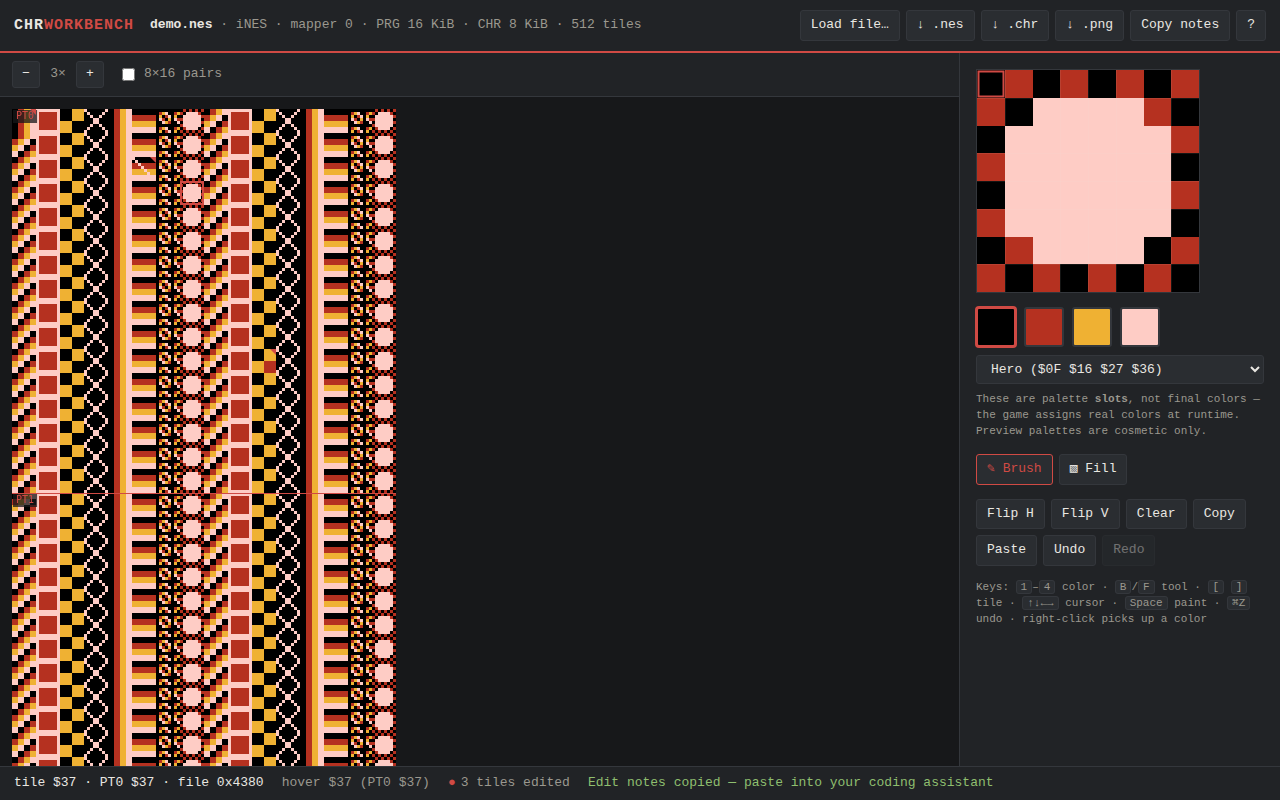
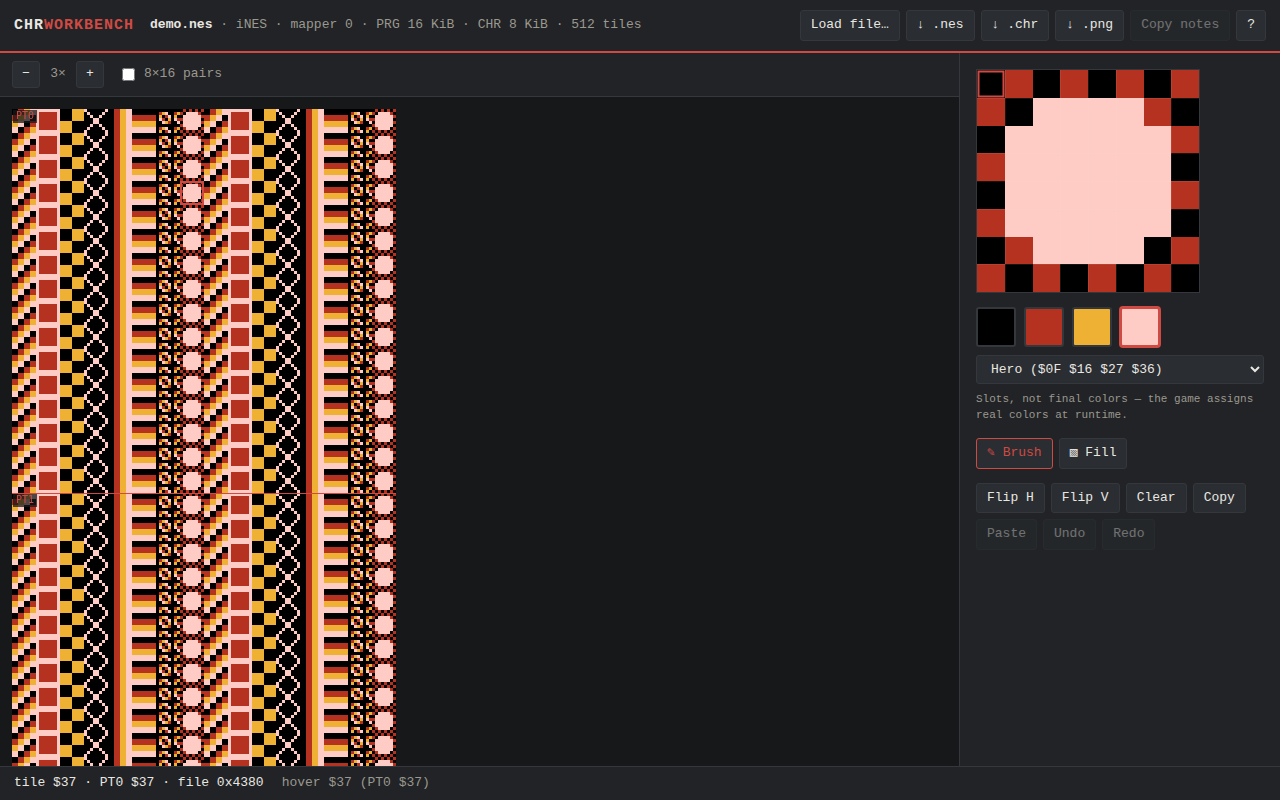
UI copy pass: trim chrome text, move detailed instructions into help
- Palette note cut to one line; keyboard-shortcut paragraph removed from
  the editor pane
- Help dialog rewritten as a scannable guide: sectioned headings, a full
  controls reference table, numbered workflow, and limitations (including
  that closing the tab discards unexported work)
- Help now opens scrolled to the top (showModal focuses the bottom Close
  button, which scrolled the heading out of view)
- 'Notes copied' flash message shortened
- Screenshot refreshed

Claude-Session: https://claude.ai/code/session_01HP2SbDyiovyKwMjda2n3MF

diff --git a/index.html b/index.html
@@ -72,8 +72,7 @@
             </div>
             <select id="palette-select" aria-label="Preview palette"></select>
             <p class="palette-note">
-              These are palette <strong>slots</strong>, not final colors — the game assigns real
-              colors at runtime. Preview palettes are cosmetic only.
+              Slots, not final colors — the game assigns real colors at runtime.
             </p>
           </div>
 
@@ -95,12 +94,6 @@
             <button id="tool-undo" type="button" title="Cmd/Ctrl+Z">Undo</button>
             <button id="tool-redo" type="button" title="Cmd/Ctrl+Shift+Z">Redo</button>
           </div>
-
-          <p class="hint">
-            Keys: <kbd>1</kbd>–<kbd>4</kbd> color · <kbd>B</kbd>/<kbd>F</kbd> tool · <kbd>[</kbd>
-            <kbd>]</kbd> tile · <kbd>↑↓←→</kbd> cursor · <kbd>Space</kbd> paint · <kbd>⌘Z</kbd> undo
-            · right-click picks up a color
-          </p>
         </section>
       </main>
 
@@ -116,39 +109,91 @@
     <div id="drop-overlay" hidden><span>Drop to load</span></div>
 
     <dialog id="help-dialog">
-      <h2>CHR Workbench in 60 seconds</h2>
+      <h2>Help</h2>
+
+      <h3>What you're looking at</h3>
       <p>
-        <strong>What you're looking at.</strong> Every NES cartridge stores its art as a grid of
-        8×8-pixel <em>tiles</em> called CHR data. The sheet on the left is all of it. Sprites, text,
-        backgrounds — if you can see it in the game, it's made of these tiles.
+        NES art is stored as 8×8-pixel <em>tiles</em> called CHR data. The sheet on the left is
+        every tile in the file — sprites, text, backgrounds. Click a tile to edit it on the right.
       </p>
+
+      <h3>Pattern tables</h3>
       <p>
-        <strong>Pattern tables.</strong> The console reads tiles in pages of 256, labelled
-        <em>PT0, PT1…</em> on the sheet. When game code (or an AI assistant) refers to &ldquo;tile
-        $A3&rdquo;, it means the position <em>within</em> a pattern table — the status bar shows
-        both numbers for whatever you select.
+        The console reads tiles in pages of 256, labelled <em>PT0, PT1…</em> on the sheet. Game code
+        refers to a tile by its position within a page — &ldquo;tile $A3&rdquo; — so the status bar
+        shows that id and the tile's file offset alongside the overall index.
       </p>
+
+      <h3>Colors</h3>
       <p>
-        <strong>Why only 4 shades?</strong> Tiles don't store colors, just slots 0–3. The game
-        assigns real colors at runtime, and reuses the same tile with different palettes. The
-        preview palettes here are cosmetic — your edits always save as slots.
+        Tiles store slots 0–3, not colors. The game maps slots to real colors while it runs, and
+        often reuses one tile with several palettes. The preview palettes only change how this
+        editor displays slots — saved data is identical in every preview.
       </p>
+
+      <h3>8×16 pairs</h3>
       <p>
-        <strong>8×16 pairs.</strong> Many games build characters from two stacked tiles. If a sprite
-        sheet looks scrambled, toggle the pair view.
+        Many games build characters from two stacked tiles. If a sprite sheet looks interleaved,
+        turn on the pair view: the sheet reorders into 8×16 units and the editor edits both tiles
+        together — flips included.
       </p>
+
+      <h3>Controls</h3>
+      <table class="controls">
+        <tr>
+          <td>Paint</td>
+          <td>click-drag with Brush, click with Fill · <kbd>B</kbd>/<kbd>F</kbd> switch tools</td>
+        </tr>
+        <tr>
+          <td>Pick a slot</td>
+          <td>click a swatch · <kbd>1</kbd>–<kbd>4</kbd></td>
+        </tr>
+        <tr>
+          <td>Pick up a color</td>
+          <td>right-click or <kbd>Alt</kbd>-click a pixel in the editor</td>
+        </tr>
+        <tr>
+          <td>Change tile</td>
+          <td>click the sheet · <kbd>[</kbd> and <kbd>]</kbd> step</td>
+        </tr>
+        <tr>
+          <td>Draw by keyboard</td>
+          <td><kbd>↑↓←→</kbd> move the cursor · <kbd>Space</kbd> or <kbd>Enter</kbd> paints</td>
+        </tr>
+        <tr>
+          <td>Undo / redo</td>
+          <td>
+            <kbd>Cmd/Ctrl</kbd>+<kbd>Z</kbd> · <kbd>Cmd/Ctrl</kbd>+<kbd>Shift</kbd>+<kbd>Z</kbd>
+          </td>
+        </tr>
+        <tr>
+          <td>Zoom the sheet</td>
+          <td><strong>−</strong> / <strong>+</strong> in the sheet toolbar</td>
+        </tr>
+      </table>
+
+      <h3>Workflow</h3>
+      <ol>
+        <li>Redraw tiles. Edited tiles get a red corner mark.</li>
+        <li>
+          <em>↓ .nes</em> downloads a patched copy of the ROM — only the art bytes change. Test it
+          in an emulator such as Mesen or FCEUX.
+        </li>
+        <li>
+          <em>Copy notes</em> puts a summary of your edits on the clipboard — mapper, tile ids, file
+          offsets — ready to paste into an AI coding assistant for the code side of the hack:
+          palette swaps, tile remapping, level edits.
+        </li>
+      </ol>
+
+      <h3>Limitations</h3>
       <p>
-        <strong>Suggested workflow.</strong> 1) Redraw tiles here. 2) Download the patched
-        <code>.nes</code> and test it in an emulator (Mesen, FCEUX). 3) Hit <em>Copy notes</em> and
-        paste into your AI coding assistant — it lists exactly which tiles you changed, with the ids
-        and file offsets code work needs (palette swaps, tile remapping, level edits).
+        Games whose header reports no CHR-ROM draw with CHR-RAM: their art is generated by code and
+        can't be edited here. Bank-switched games reuse tiles, so one edit can appear on several
+        screens. Everything stays in your browser — closing the tab discards unexported work.
       </p>
-      <p>
-        <strong>Heads-up.</strong> Games whose header reports no CHR-ROM draw with CHR-RAM — their
-        art is generated by code and can't be edited here. And bank-switched games reuse tiles in
-        several places, so an edit can show up in more than one screen.
-      </p>
-      <form method="dialog"><button type="submit">Got it</button></form>
+
+      <form method="dialog"><button type="submit">Close</button></form>
     </dialog>
 
     <script type="module" src="/src/main.ts"></script>

diff --git a/src/style.css b/src/style.css
@@ -273,12 +273,6 @@ kbd {
   color: var(--accent);
 }
 
-.hint {
-  margin: 0;
-  color: var(--ink-dim);
-  font-size: 11px;
-}
-
 /* ── Status bar ─────────────────────────────────────────── */
 
 #statusbar {
@@ -318,6 +312,8 @@ kbd {
   border-top: 2px solid var(--accent);
   border-radius: 4px;
   max-width: 34rem;
+  max-height: 85vh;
+  overflow-y: auto;
   padding: 20px 24px;
   font: inherit;
   font-size: 13px;
@@ -334,8 +330,42 @@ kbd {
   letter-spacing: 0.5px;
 }
 
-#help-dialog p {
-  margin: 0 0 10px;
+#help-dialog h3 {
+  margin: 16px 0 4px;
+  font-size: 12px;
+  letter-spacing: 1px;
+  text-transform: uppercase;
+  color: var(--accent);
+}
+
+#help-dialog p,
+#help-dialog ol {
+  margin: 0 0 6px;
+}
+
+#help-dialog ol {
+  padding-left: 1.4em;
+}
+
+#help-dialog li {
+  margin-bottom: 4px;
+}
+
+#help-dialog .controls {
+  border-collapse: collapse;
+  width: 100%;
+}
+
+#help-dialog .controls td {
+  padding: 3px 0;
+  vertical-align: top;
+  border-bottom: 1px solid var(--border);
+}
+
+#help-dialog .controls td:first-child {
+  color: var(--ink-dim);
+  white-space: nowrap;
+  padding-right: 16px;
 }
 
 #help-dialog em {

diff --git a/src/main.ts b/src/main.ts
@@ -257,7 +257,11 @@ toolFill.addEventListener('click', () => setTool('fill'));
 
 // ── Help & hack notes ──────────────────────────────────────
 
-$('#btn-help').addEventListener('click', () => helpDialog.showModal());
+$('#btn-help').addEventListener('click', () => {
+  helpDialog.showModal();
+  // showModal focuses the Close button at the bottom; start at the top.
+  helpDialog.scrollTop = 0;
+});
 
 /**
  * Markdown summary of every edited tile, written for pasting into an AI
@@ -295,7 +299,7 @@ btnNotes.addEventListener('click', async () => {
   if (!state.loaded || state.dirty.size === 0) return;
   try {
     await navigator.clipboard.writeText(hackNotes());
-    flashStatus('Edit notes copied — paste into your coding assistant');
+    flashStatus('Notes copied');
   } catch {
     flashStatus('Clipboard unavailable — check browser permissions');
   }